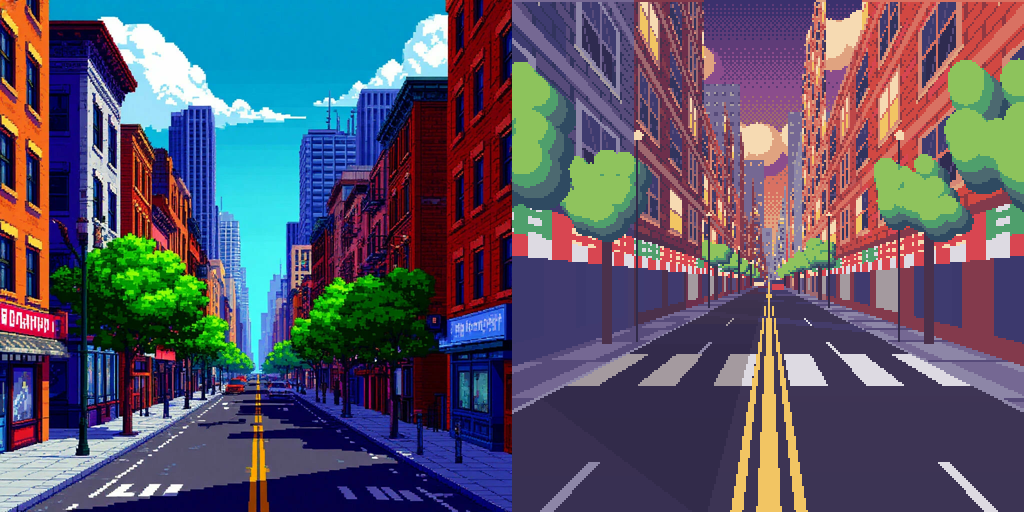
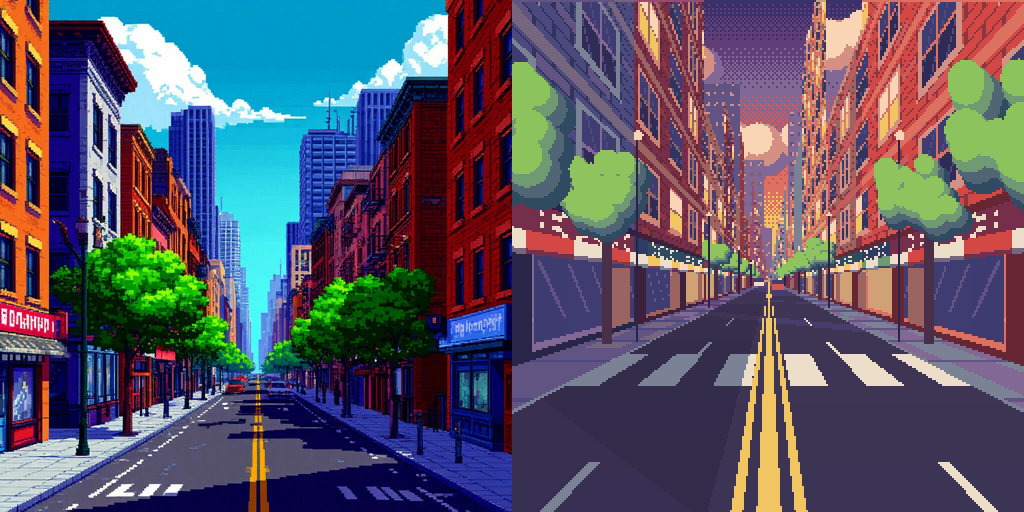
Street step 1d: shopfront awnings, signs, doors, glass
Claude-Session: https://claude.ai/code/session_018A3EjUJwum2xaBpGm7gsrV

diff --git a/games/background/street/make_street.py b/games/background/street/make_street.py
@@ -54,12 +54,21 @@ for x in range(W):
         h=CAMH-(y-VY)*z/F; fl=int(h//3.2); fh=h%3.2; wz=z%2.6
         c=base
         if fl==0:
-            c=lerp(base,SHOP,.5)
-            if 0.4<fh<1.95 and 0.4<wz<2.2: c=lerp(GLASS,LIT,.55) if (bi+int(z/2.6))%3==0 else lerp(NAVY,GLASS,.3)
-            elif 1.95<=fh<2.35: c=(hx("#e8e0d0") if int(z*2)%2 else hx("#d8434f"))          # awning stripes
-            elif 2.35<=fh<2.95:
-                sg=hx("#d8434f") if (bi+int(z/5))%2 else hx("#3fa7a3")
-                c=lerp(sg,(255,240,230),.7) if int(z*4)%2==0 and int(fh*7)%2==0 and 0.2<wz<2.4 else sg   # sign letters
+            ac=[(hx("#d8434f"),hx("#f0d8c8")),(hx("#3fa7a3"),hx("#e0f0e8")),(hx("#e0a03f"),hx("#f8e8c0"))][(bi+int(z/9))%3]
+            sg=[hx("#7a2f4c"),hx("#1f3f6a"),hx("#2f5a4a")][(bi+int(z/9))%3]
+            c=lerp(base,(10,5,30),.55)                                       # shop wall (dark pier)
+            sx=z%4.2                                                          # one shop unit = 4.2 deep
+            if 2.45<=fh<3.0:                                                  # sign band + lettering
+                c=sg
+                if 0.5<sx<3.7 and int(fh*9)%3!=0 and int(z*5)%3!=0 and (int(z*5)+int(fh*9))%2==0: c=hx("#f5e6c8")
+            elif 2.0<=fh<2.45:                                                # awning, wide stripes
+                c=ac[0] if int(z*0.9)%2==0 else ac[1]
+                if fh<2.1: c=lerp(c,(10,5,30),.45)                            # shaded lower edge
+            elif 0.15<fh<2.0 and 0.35<sx<3.85:
+                if 2.7<sx<3.6 and fh<1.9: c=lerp(hx("#2a2040"),LIT,.35)       # door with lit glass
+                elif abs(sx-2.65)<0.05 or abs(sx-0.35)<0.05 or fh<0.3: c=lerp(base,(255,225,190),.3)  # frame
+                else: c=lerp(GLASS,LIT,.55) if (bi+int(z/4.2))%2==0 else lerp(NAVY,GLASS,.35)
+                if (0.7<fh<1.9) and (sx*2+fh)%1.4<0.16 and c!=LIT: c=lerp(c,(255,255,255),.15)
         else:
             if fh>2.85: c=lerp(base,(255,225,170),.25)
             elif 0.62<fh<2.58 and 0.42<wz<2.02:
